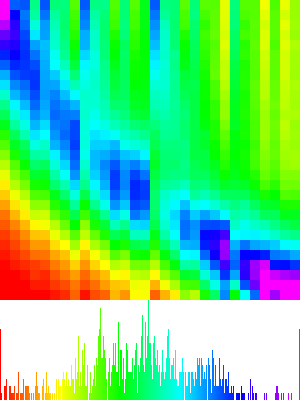
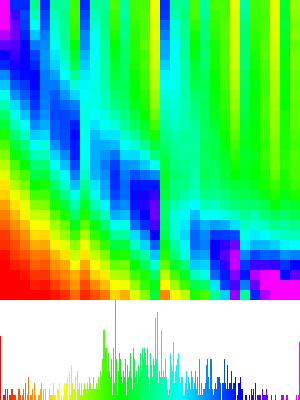
Adds merge step composition table and updates merge graphs

diff --git a/main.js b/main.js
@@ -120,8 +120,8 @@ var jsSorts = [ [10, ()=>0, 'forward'], [10, (a)=>a.reverse(), 'backward'],     
   [300, (a,c)=>heapify(a,c,0,a.length), 'heapify-300'], [300, heapLoop, 'heap-loop-300'],                         // Heap Analysis
   [50, daryHeap(3), 'ternary-heap-50'], [50, daryHeap(4), '4ary-heap-50'],
   [300, mergeStep(1), 'merge-step-1'], [300, mergeStep(2), 'merge-step-2'],[300, mergeStep(4), 'merge-step-4'],   // Merge Analysis
-  [300, mergeStep(8), 'merge-step-8'],[300, mergeStep(16), 'merge-step-16'],
-  [300, mergeStep(32), 'merge-step-32'],[300, mergeStep(64), 'merge-step-64'],[300, mergeStep(128), 'merge-step-128'],
+  [300, mergeStep(8), 'merge-step-8'],[300, mergeStep(16), 'merge-step-16'],[300, mergeStep(32), 'merge-step-32'],
+  [300, mergeStep(64), 'merge-step-64'],[300, mergeStep(128), 'merge-step-128'],[300, mergeStep(256), 'merge-step-256'],
   
   
   // Firefox Array.sort Analysis
@@ -150,11 +150,19 @@ var firefoxSorts = [
 //TODO: compose(heapify,heaploop)
 
 
-function composeMergeStep(m){
+function composeMergeStep(m,disp){
   var start = m.get('merge-step-1');
-  for(var i = 2; i <= 128; i*=2){
+  for(var i = 2; i <= 256; i*=2){
     start = compose(start,m.get('merge-step-'+i));
     disp(graph(start));
+  }
+}
+
+function composeBackwardsMergeStep(m,disp){
+  var start = m.get('merge-step-256');
+  for(var i = 128; i >= 1; i/=2){
+    start = compose(m.get('merge-step-'+i),start);
+    disp(graph(start),'merge-steps-'+i+'-256');
   }
 }
 

diff --git a/README.md b/README.md
@@ -464,9 +464,12 @@ IE rather than composing like `((AB)C)D` and looking at each intermediate step. 
 can do `A(B(CD))` and look at each itermediate step. This is a valid method because
 matrix multiplication is [associative](https://en.wikipedia.org/wiki/Associative_property).
 
-*_TODO: table_*
+|   w   | (64-256) |  (16-256) |   (4-256) |  (1-256)  |
+|-------|----------|-----------|-----------|-----------|
+|steps in the range composed|![merge-steps-64-256](images/merge-steps-64-256.png)|![merge-steps-16-256](images/merge-steps-16-256.png)|![merge-steps-4-256](images/merge-steps-4-256.png)|![merge-steps-1-256](images/merge-steps-1-256.png)|
 
-And that explians why the pattern in merge sort arises just from the graph of merge.
+
+And that explains why the pattern in merge sort arises just from the graph of merge.
 
 
 #### Conection to Array.sort
